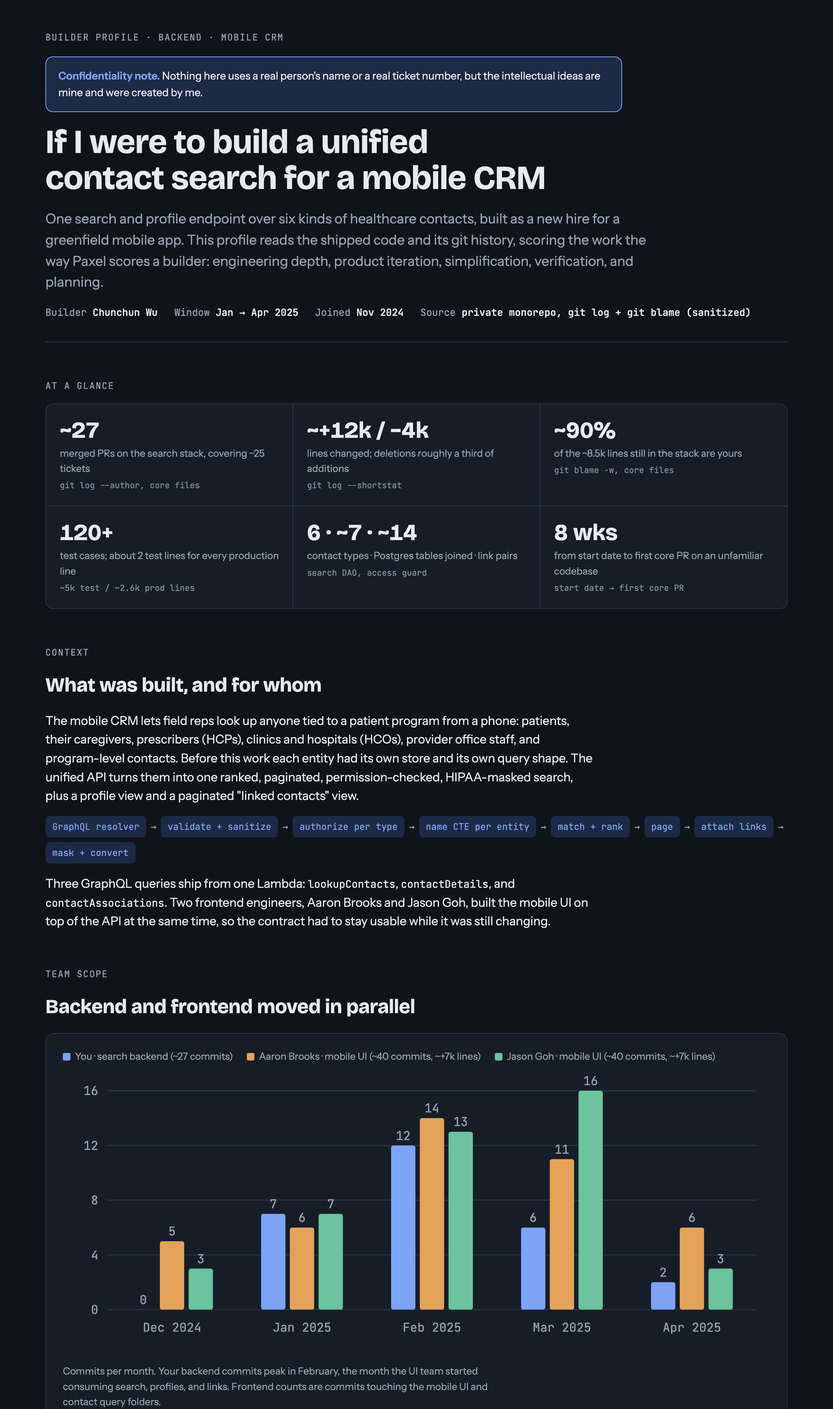
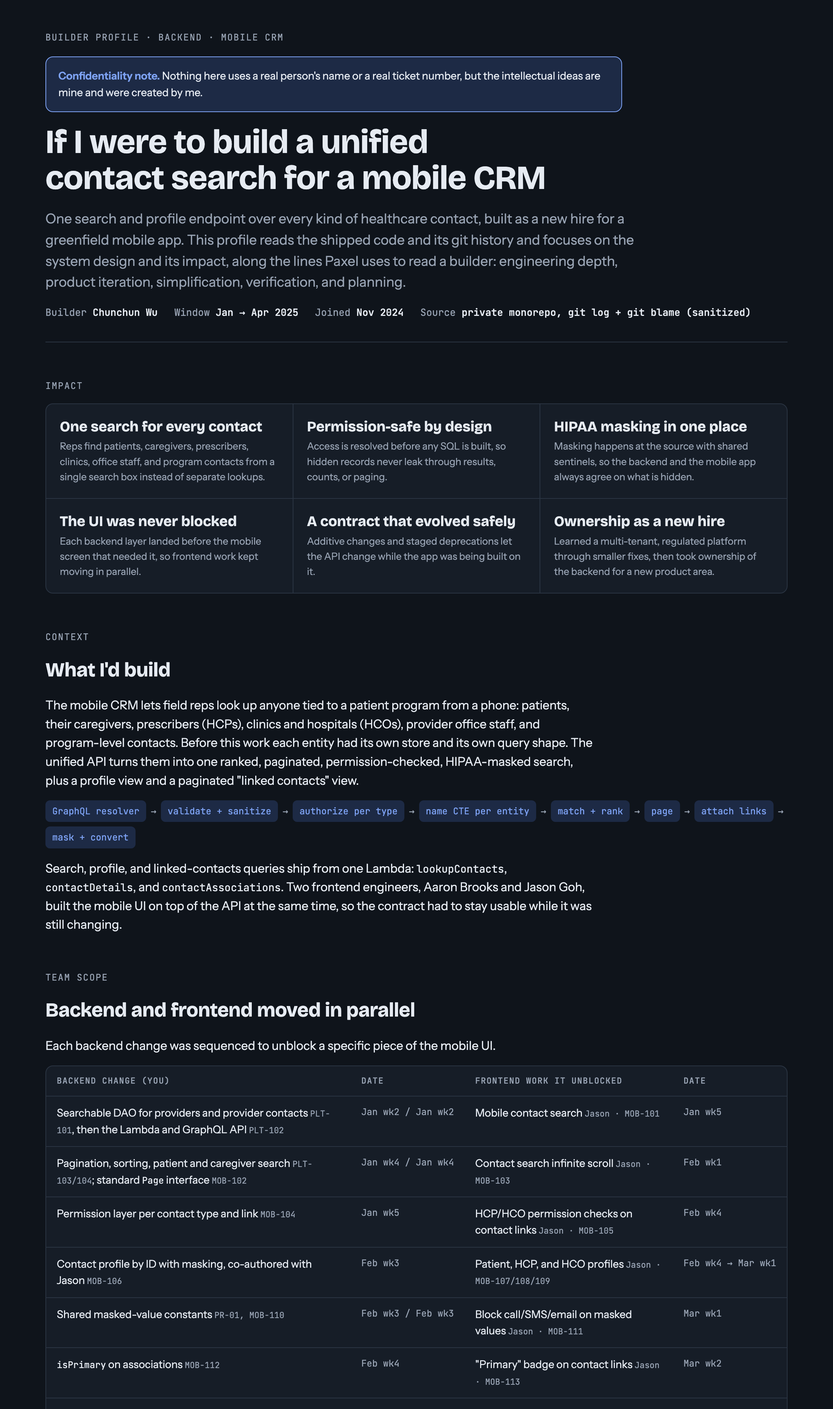
Focus the profile on impact and system design
Drops counts and git metrics in favor of outcome and action bullets,
each with a bold tagline, and renames the context section to
"What I'd build".

diff --git a/index.html b/index.html
@@ -112,6 +112,10 @@ svg text { fill: var(--muted); font-family: var(--f-mono); font-size: 11px; }
 .pipeline span.step { background: var(--accent-soft); color: var(--accent); padding: 5px 9px; border-radius: 6px; }
 .pipeline span.arr { color: var(--muted); }
 footer { border-top: 1px solid var(--rule); padding-top: 20px; font-size: 13px; color: var(--muted); display: flex; flex-direction: column; gap: 8px; }
+.tile .h { font-family: var(--f-display); font-size: 19px; font-weight: 700; line-height: 1.25; }
+.pane-label { font-family: var(--f-mono); font-size: 11px; text-transform: uppercase; letter-spacing: 0.08em; color: var(--muted); }
+ul.outcomes { margin: 0; padding-left: 18px; display: flex; flex-direction: column; gap: 10px; font-size: 14px; color: var(--muted); }
+ul.outcomes b, ul.clean b { color: var(--ink); }
 </style>
 
 <div class="wrap">
@@ -120,7 +124,7 @@ footer { border-top: 1px solid var(--rule); padding-top: 20px; font-size: 13px; 
   <span class="eyebrow">Builder profile · backend · mobile CRM</span>
   <div class="notice" role="note"><b>Confidentiality note.</b> Nothing here uses a real person's name or a real ticket number, but the intellectual ideas are mine and were created by me.</div>
   <h1>If I were to build a unified contact search for a mobile CRM</h1>
-  <p class="lede">One search and profile endpoint over six kinds of healthcare contacts, built as a new hire for a greenfield mobile app. This profile reads the shipped code and its git history, scoring the work the way Paxel scores a builder: engineering depth, product iteration, simplification, verification, and planning.</p>
+  <p class="lede">One search and profile endpoint over every kind of healthcare contact, built as a new hire for a greenfield mobile app. This profile reads the shipped code and its git history and focuses on the system design and its impact, along the lines Paxel uses to read a builder: engineering depth, product iteration, simplification, verification, and planning.</p>
   <div class="meta">
     <span>Builder <b>Chunchun Wu</b></span>
     <span>Window <b>Jan → Apr 2025</b></span>
@@ -130,20 +134,20 @@ footer { border-top: 1px solid var(--rule); padding-top: 20px; font-size: 13px; 
 </header>
 
 <section class="stack">
-  <span class="eyebrow">At a glance</span>
+  <span class="eyebrow">Impact</span>
   <div class="tiles">
-    <div class="tile"><span class="n">~27</span><span class="l">merged PRs on the search stack, covering ~25 tickets</span><span class="src">git log --author, core files</span></div>
-    <div class="tile"><span class="n">~+12k / −4k</span><span class="l">lines changed; deletions roughly a third of additions</span><span class="src">git log --shortstat</span></div>
-    <div class="tile"><span class="n">~90%</span><span class="l">of the ~8.5k lines still in the stack are yours</span><span class="src">git blame -w, core files</span></div>
-    <div class="tile"><span class="n">120+</span><span class="l">test cases; about 2 test lines for every production line</span><span class="src">~5k test / ~2.6k prod lines</span></div>
-    <div class="tile"><span class="n">6 · ~7 · ~14</span><span class="l">contact types · Postgres tables joined · link pairs</span><span class="src">search DAO, access guard</span></div>
-    <div class="tile"><span class="n">8 wks</span><span class="l">from start date to first core PR on an unfamiliar codebase</span><span class="src">start date → first core PR</span></div>
+    <div class="tile"><span class="h">One search for every contact</span><span class="l">Reps find patients, caregivers, prescribers, clinics, office staff, and program contacts from a single search box instead of separate lookups.</span></div>
+    <div class="tile"><span class="h">Permission-safe by design</span><span class="l">Access is resolved before any SQL is built, so hidden records never leak through results, counts, or paging.</span></div>
+    <div class="tile"><span class="h">HIPAA masking in one place</span><span class="l">Masking happens at the source with shared sentinels, so the backend and the mobile app always agree on what is hidden.</span></div>
+    <div class="tile"><span class="h">The UI was never blocked</span><span class="l">Each backend layer landed before the mobile screen that needed it, so frontend work kept moving in parallel.</span></div>
+    <div class="tile"><span class="h">A contract that evolved safely</span><span class="l">Additive changes and staged deprecations let the API change while the app was being built on it.</span></div>
+    <div class="tile"><span class="h">Ownership as a new hire</span><span class="l">Learned a multi-tenant, regulated platform through smaller fixes, then took ownership of the backend for a new product area.</span></div>
   </div>
 </section>
 
 <section class="stack">
   <span class="eyebrow">Context</span>
-  <h2>What was built, and for whom</h2>
+  <h2>What I'd build</h2>
   <p>The mobile CRM lets field reps look up anyone tied to a patient program from a phone: patients, their caregivers, prescribers (HCPs), clinics and hospitals (HCOs), provider office staff, and program-level contacts. Before this work each entity had its own store and its own query shape. The unified API turns them into one ranked, paginated, permission-checked, HIPAA-masked search, plus a profile view and a paginated "linked contacts" view.</p>
   <div class="pipeline" aria-label="Query pipeline">
     <span class="step">GraphQL resolver</span><span class="arr">→</span>
@@ -155,21 +159,13 @@ footer { border-top: 1px solid var(--rule); padding-top: 20px; font-size: 13px; 
     <span class="step">attach links</span><span class="arr">→</span>
     <span class="step">mask + convert</span>
   </div>
-  <p>Three GraphQL queries ship from one Lambda: <code>lookupContacts</code>, <code>contactDetails</code>, and <code>contactAssociations</code>. Two frontend engineers, Aaron Brooks and Jason Goh, built the mobile UI on top of the API at the same time, so the contract had to stay usable while it was still changing.</p>
+  <p>Search, profile, and linked-contacts queries ship from one Lambda: <code>lookupContacts</code>, <code>contactDetails</code>, and <code>contactAssociations</code>. Two frontend engineers, Aaron Brooks and Jason Goh, built the mobile UI on top of the API at the same time, so the contract had to stay usable while it was still changing.</p>
 </section>
 
 <section class="stack">
   <span class="eyebrow">Team scope</span>
   <h2>Backend and frontend moved in parallel</h2>
-  <div class="chart-card">
-    <div class="legend">
-      <span><i style="background:var(--s-you)"></i>You · search backend (~27 commits)</span>
-      <span><i style="background:var(--s-a)"></i>Aaron Brooks · mobile UI (~40 commits, ~+7k lines)</span>
-      <span><i style="background:var(--s-j)"></i>Jason Goh · mobile UI (~40 commits, ~+7k lines)</span>
-    </div>
-    <div class="chart-scroll"><svg id="cadence" viewBox="0 0 640 250" width="100%" style="min-width:520px" role="img" aria-label="Commits per month, December 2024 to April 2025"></svg></div>
-    <p style="font-size:13px;color:var(--muted)">Commits per month. Your backend commits peak in February, the month the UI team started consuming search, profiles, and links. Frontend counts are commits touching the mobile UI and contact query folders.</p>
-  </div>
+  <p>Each backend change was sequenced to unblock a specific piece of the mobile UI.</p>
   <div class="table-wrap">
     <table>
       <thead><tr><th>Backend change (you)</th><th>Date</th><th>Frontend work it unblocked</th><th>Date</th></tr></thead>
@@ -189,8 +185,8 @@ footer { border-top: 1px solid var(--rule); padding-top: 20px; font-size: 13px; 
 
 <section class="stack">
   <span class="eyebrow">Dimensions</span>
-  <h2>How the work scores</h2>
-  <p>Each panel pairs the measurable signals with a reading of the code. The pill is the strength of the evidence in the repository, not a self-rating.</p>
+  <h2>How the work reads</h2>
+  <p>Each panel pairs the outcomes with the design actions behind them. The pill is the strength of the evidence in the repository, not a self-rating.</p>
 </section>
 
 <article class="dim">
@@ -200,21 +196,21 @@ footer { border-top: 1px solid var(--rule); padding-top: 20px; font-size: 13px; 
   </div>
   <div class="dim-body">
     <div class="signals">
-      <dl class="kv">
-        <dt>6</dt><dd>contact types behind one API</dd>
-        <dt>7</dt><dd>Postgres tables, relational and JSONB</dd>
-        <dt>14</dt><dd>typed link pairs between types</dd>
-        <dt>6</dt><dd>access modules mapped to types</dd>
-        <dt>~85%</dt><dd>of the DAO lines are yours</dd>
-        <dt>3</dt><dd>GraphQL queries, 1 Lambda</dd>
-      </dl>
+      <span class="pane-label">Outcomes</span>
+      <ul class="outcomes">
+        <li><b>One API for every contact type.</b> The mobile app calls one search, one profile, and one linked-contacts query instead of a different query per entity.</li>
+        <li><b>New types plug in cheaply.</b> Adding a contact type means adding one CTE. Matching, ranking, and paging stay the same.</li>
+        <li><b>Access rules extend without rewrites.</b> A teammate later layered provider-level access restrictions (HC-101) onto the guard without touching the query.</li>
+      </ul>
     </div>
     <div class="reading">
-      <p>The hard part was shape, not volume. Providers and HCOs live in relational tables. Patients live in a JSONB cache. Caregivers are rows inside an address-book array on the patient. You normalized all of them with one CTE per entity that emits the same columns (id, name, last name, external id, type), then ran matching, ranking, paging, and link expansion once over the union.</p>
+      <span class="pane-label">Actions</span>
+      <p>The hard part was shape, not volume. Providers and HCOs live in relational tables, patients live in a JSONB cache, and caregivers are rows inside an address-book array on the patient.</p>
       <ul class="clean">
-        <li>Caregivers have no ID of their own, so you built a composite key (<code>patientId:contactBookId</code>) and moved the delimiter into a shared constant that the SQL <code>split</code> calls and the TypeScript converter both use.</li>
-        <li>Links are modelled as 14 explicit pairs (for example HCP→patient, patient→caregiver). Where the database has no HCO→HCP link, the code reads the HCP→HCO link backwards and says so in a comment.</li>
-        <li>Authorization is a separate <code>ContactAccessGuard</code>. It turns a user's role into allowed types and allowed links before any SQL runs. A teammate later layered provider-level global access restrictions (HC-101) onto this structure in a couple hundred lines.</li>
+        <li><b>Normalized every data shape.</b> One CTE per entity emits the same columns (id, name, last name, external id, type), then matching, ranking, paging, and link expansion run once over the union.</li>
+        <li><b>Gave caregivers a stable identity.</b> Caregivers have no ID of their own, so you built a composite key (<code>patientId:contactBookId</code>) with the delimiter in a shared constant that the SQL <code>split</code> calls and the TypeScript converter both use, so the two can't drift apart.</li>
+        <li><b>Modelled links as explicit pairs.</b> Every link between types (for example HCP→patient, patient→caregiver) is typed. Where the database has no HCO→HCP link, the code reads the HCP→HCO link backwards and says so in a comment.</li>
+        <li><b>Authorized before querying.</b> A separate <code>ContactAccessGuard</code> turns a user's role into allowed types and allowed links before any SQL runs, and the query is built only from what is allowed.</li>
       </ul>
       <div class="evidence"><span>c001 PLT-101</span> · <span>c002 PLT-102</span> · <span>c003 PLT-103</span> · <span>c004 MOB-104</span> · <span>c005 MOB-118</span></div>
     </div>
@@ -228,21 +224,21 @@ footer { border-top: 1px solid var(--rule); padding-top: 20px; font-size: 13px; 
   </div>
   <div class="dim-body">
     <div class="signals">
-      <dl class="kv">
-        <dt>~25</dt><dd>distinct tickets in ~14 weeks</dd>
-        <dt>12</dt><dd>PRs in February, at the UI ramp</dd>
-        <dt>36%</dt><dd>lines deleted per line added</dd>
-        <dt>3</dt><dd>contract changes kept backward compatible</dd>
-        <dt>4</dt><dd>dedicated bug-fix rounds</dd>
-      </dl>
+      <span class="pane-label">Outcomes</span>
+      <ul class="outcomes">
+        <li><b>Search results reps can trust.</b> Exact matches and primary links rise to the top, and hidden patients never sort by a fake value.</li>
+        <li><b>The mobile client never broke.</b> Every contract change shipped backward compatible while the UI was being built on it.</li>
+        <li><b>Cleaner, more relevant results.</b> Archived providers no longer leak into search, and previews show what reps actually need.</li>
+      </ul>
     </div>
     <div class="reading">
-      <p>Requirements kept changing as the mobile UI came together, and the history shows a steady loop: ship, see it in the app, tighten. The ranking is the clearest example. It started as plain matching and ended as a documented three-step order.</p>
+      <span class="pane-label">Actions</span>
+      <p>Requirements kept changing as the mobile UI came together, and the history shows a steady loop: ship, see it in the app, tighten. The ranking is the clearest example. It started as plain matching and ended as a documented, ordered set of rules.</p>
       <ul class="clean">
-        <li><b>Ranking.</b> Case-insensitive order (PR-02), then exact matches first, then last name when one exists (MOB-119), then primary links first (MOB-120). Masked names sort as empty and fall back to external ID, so hidden patients never sort by a fake value.</li>
-        <li><b>Search scope.</b> Added search by external ID (MOB-121). Showed the external ID as the preview subtitle (MOB-110) and dropped addresses from previews (MOB-122).</li>
-        <li><b>Contract hygiene.</b> Trimmed the GraphQL schema (MOB-123), replaced <code>hasNext</code> with the shared <code>Page</code> interface (MOB-102), and retired <code>LegacyContactKind</code> in stages, leaving a "to be deprecated" marker so the mobile client never broke (MOB-124).</li>
-        <li><b>Data correctness.</b> Archived providers leaking into results (MOB-112), faster JSONB archive checks (MOB-125), and an <code>isPrimary</code> flag on associations.</li>
+        <li><b>Refined ranking with real use.</b> Case-insensitive order (PR-02), then exact matches first, then last name when one exists (MOB-119), then primary links first (MOB-120). Masked names sort as empty and fall back to external ID.</li>
+        <li><b>Widened the search scope.</b> Added search by external ID (MOB-121), showed the external ID as the preview subtitle (MOB-110), and dropped addresses from previews (MOB-122).</li>
+        <li><b>Kept the contract clean.</b> Trimmed the GraphQL schema (MOB-123), replaced <code>hasNext</code> with the shared <code>Page</code> interface (MOB-102), and retired <code>LegacyContactKind</code> in stages with a "to be deprecated" marker (MOB-124).</li>
+        <li><b>Fixed data correctness.</b> Stopped archived providers leaking into results (MOB-112), sped up JSONB archive checks (MOB-125), and added an <code>isPrimary</code> flag on associations.</li>
       </ul>
       <div class="evidence"><span>c006 MOB-126/127/128</span> · <span>c007 MOB-129</span> · <span>c008 MOB-121</span> · <span>c009 MOB-124</span> · <span>c010 MOB-119</span> · <span>c011 MOB-120</span></div>
     </div>
@@ -256,19 +252,21 @@ footer { border-top: 1px solid var(--rule); padding-top: 20px; font-size: 13px; 
   </div>
   <div class="dim-body">
     <div class="signals">
-      <dl class="kv">
-        <dt>1</dt><dd>shared constants module, used by both apps</dd>
-        <dt>2</dt><dd>backend-local mask strings removed</dd>
-        <dt>3</dt><dd>teammate PRs adopted it within 4 weeks</dd>
-        <dt>~175</dt><dd>lines deleted from the result processor in MOB-106</dd>
-      </dl>
+      <span class="pane-label">Outcomes</span>
+      <ul class="outcomes">
+        <li><b>One source of truth.</b> Backend and frontend import the same mask constants, so there are no local copies to drift.</li>
+        <li><b>Hidden is never confused with empty.</b> The sentinels can't collide with real data, so the UI reliably detects a masked value.</li>
+        <li><b>Teammates built on it right away.</b> Masked phone and email can't start a call or message (MOB-111), masked values are hidden from contact dropdowns (MSG-101), and the patient profile switched to the shared constants (PR-03).</li>
+      </ul>
     </div>
     <div class="reading">
+      <span class="pane-label">Actions</span>
       <p>Patients without HIPAA consent must show masked values. At first the backend used its own ASCII strings (<code>******</code>, <code>***-***-****</code>) inside the converter, and the web app kept its own mask literals. A real value could collide with the mask, and the UI had no reliable way to tell "hidden" from "empty".</p>
       <ul class="clean">
-        <li>Masking moved into the query: columns are tagged <code>MaskedColumn</code>, so the masked value is produced once, at the source, and paging, sorting, and links all see the same value.</li>
-        <li>The masks moved into <code>@medlink/constants/obfuscation</code>, imported by backend and frontend alike. Each one uses heavy asterisks plus a zero-width space, so no real data can equal it and the UI can detect a masked value with a plain set lookup.</li>
-        <li>Teammates built on it right away: masked phone and email can't start a call or message (Jason, MOB-111), masked values are hidden from contact dropdowns (MSG-101), and the patient profile switched to the shared constants (PR-03).</li>
+        <li><b>Masked at the source.</b> Columns are tagged <code>MaskedColumn</code>, so the masked value is produced once, in the query, and paging, sorting, and links all see the same value.</li>
+        <li><b>Centralized the masks.</b> The masks moved into <code>@medlink/constants/obfuscation</code>, imported by backend and frontend alike.</li>
+        <li><b>Designed collision-proof sentinels.</b> Each mask uses heavy asterisks plus a zero-width space, so no real data can equal it and the UI can detect a masked value with a plain set lookup.</li>
+        <li><b>Removed duplicate masking code.</b> Deleted the converter's local mask strings and the masking logic in the result processor (MOB-106).</li>
       </ul>
       <div class="evidence"><span>c012 PR-01</span> · <span>c013 MOB-110</span> · <span>c014 MOB-106</span> · <span>c015 MOB-111</span> · <span>c016 PR-03</span></div>
     </div>
@@ -282,20 +280,20 @@ footer { border-top: 1px solid var(--rule); padding-top: 20px; font-size: 13px; 
   </div>
   <div class="dim-body">
     <div class="signals">
-      <dl class="kv">
-        <dt>120+</dt><dd>unit and integration cases</dd>
-        <dt>~70</dt><dd>DAO cases against Postgres</dd>
-        <dt>~20</dt><dd>Lambda permission and masking cases</dd>
-        <dt>~2 : 1</dt><dd>test to production lines</dd>
-        <dt>6</dt><dd>Playwright mobile contact tests hit the API</dd>
-        <dt>2</dt><dd>latency timers in the request path</dd>
-      </dl>
+      <span class="pane-label">Outcomes</span>
+      <ul class="outcomes">
+        <li><b>Rules checked against a real database.</b> Every permission and masking rule runs against a Postgres test database, not mocks.</li>
+        <li><b>Mobile flows covered end to end.</b> The mobile Playwright suite exercises the API through real contact flows.</li>
+        <li><b>Latency visible per request.</b> Search time shows up in CloudWatch at both the DAO and resolver layers.</li>
+      </ul>
     </div>
     <div class="reading">
-      <p>Automated testing is the strongest part of this dimension. Every major PR shipped with more test lines than code, and the ~1k-line shared fixture models a realistic tenant (every contact type, patients with and without consent, archived records) so each permission and masking rule is checked against a Postgres test database, not mocks.</p>
+      <span class="pane-label">Actions</span>
+      <p>Automated testing is the strongest part of this dimension. Every major PR shipped with its tests, and more test code than production code overall.</p>
       <ul class="clean">
-        <li><b>End-to-end.</b> The mobile Playwright suite runs six contact flows through your API: patient profile, patient associations, HCO profile, HCP profile, and creating email and SMS from a contact. Teammates wrote those specs. Your own Playwright work is on a later feature (PR-04, PR-05).</li>
-        <li><b>Latency.</b> Search time is logged at the DAO and resolver layers (<code>Timer</code> in MOB-114), which gives per-request numbers in CloudWatch.</li>
+        <li><b>Built a realistic tenant fixture.</b> One shared fixture models every contact type, patients with and without consent, and archived records, so each permission and masking rule is checked against realistic data.</li>
+        <li><b>Covered the mobile flows end to end.</b> The Playwright suite runs patient profile, patient associations, HCO profile, HCP profile, and creating email and SMS from a contact through your API. Teammates wrote those specs. Your own Playwright work is on a later feature (PR-04, PR-05).</li>
+        <li><b>Instrumented latency.</b> Search time is logged at the DAO and resolver layers (<code>Timer</code> in MOB-114).</li>
       </ul>
       <div class="todo">
         <b>Load test results are not in the repository.</b>
@@ -313,15 +311,20 @@ footer { border-top: 1px solid var(--rule); padding-top: 20px; font-size: 13px; 
   </div>
   <div class="dim-body">
     <div class="signals">
-      <dl class="kv">
-        <dt>1 day</dt><dd>from DAO PR to API PR</dd>
-        <dt>1 day</dt><dd>median gap between core PRs (3.8-day mean)</dd>
-        <dt>2</dt><dd>features split into "Part 1" PRs</dd>
-        <dt>0</dt><dd>reverts on the search stack</dd>
-      </dl>
+      <span class="pane-label">Outcomes</span>
+      <ul class="outcomes">
+        <li><b>The UI never waited on the backend.</b> Each layer landed before the screen that needed it.</li>
+        <li><b>Reviews stayed small.</b> Large items were split into "Part 1" PRs that could be reviewed quickly.</li>
+        <li><b>A stable stack.</b> Nothing on the search stack had to be reverted, while the mobile comms area had reverts elsewhere in the same period.</li>
+      </ul>
     </div>
     <div class="reading">
-      <p>The build order kept every step mergeable: data access with tests first, then the API, then pagination, then permissions, then masking, then profiles. Each layer landed before the UI needed it, and large items were split ("Part 1" for MOB-129 and MOB-110) so reviews stayed small. The mobile comms area had reverts elsewhere during this period. The search stack had none.</p>
+      <span class="pane-label">Actions</span>
+      <ul class="clean">
+        <li><b>Built bottom-up.</b> Data access with tests first, then the API, then pagination, then permissions, then masking, then profiles, so every step was mergeable on its own.</li>
+        <li><b>Split large items.</b> "Part 1" PRs for MOB-129 and MOB-110 kept each review focused.</li>
+        <li><b>Shipped in short, steady increments.</b> Core PRs followed each other closely, starting with the API the day after the data layer.</li>
+      </ul>
       <div class="evidence"><span>PLT-101 → PLT-102 → PLT-103 → MOB-102 → MOB-104 → MOB-118 → MOB-106</span></div>
     </div>
   </div>
@@ -331,8 +334,8 @@ footer { border-top: 1px solid var(--rule); padding-top: 20px; font-size: 13px; 
   <span class="eyebrow">Challenges</span>
   <h2>Problems a new hire had to solve</h2>
   <div class="challenges">
-    <div class="ch"><h3>New codebase, healthcare rules</h3><span class="k p">Problem</span><p>A multi-tenant monorepo with per-customer Postgres schemas, DynamoDB, and HIPAA access tiers, learned while the project was starting.</p><span class="k s">Response</span><p>Spent eight weeks on smaller fixes and refactors, then took the backend for a new product area. Roughly 90% of its lines are still yours today.</p></div>
-    <div class="ch"><h3>Six data shapes, one result list</h3><span class="k p">Problem</span><p>Relational rows, JSONB documents, and nested arrays had to rank and page together.</p><span class="k s">Response</span><p>Per-entity CTEs that emit one common row shape, with a composite key for caregivers who had no ID.</p></div>
+    <div class="ch"><h3>New codebase, healthcare rules</h3><span class="k p">Problem</span><p>A multi-tenant monorepo with per-customer Postgres schemas, DynamoDB, and HIPAA access tiers, learned while the project was starting.</p><span class="k s">Response</span><p>Started with smaller fixes and refactors to learn the platform, then took ownership of the backend for a new product area.</p></div>
+    <div class="ch"><h3>Many data shapes, one result list</h3><span class="k p">Problem</span><p>Relational rows, JSONB documents, and nested arrays had to rank and page together.</p><span class="k s">Response</span><p>Per-entity CTEs that emit one common row shape, with a composite key for caregivers who had no ID.</p></div>
     <div class="ch"><h3>Permissions before data</h3><span class="k p">Problem</span><p>Each role sees a different set of types and links. Filtering after the query would leak counts and break paging.</p><span class="k s">Response</span><p>The authorizer decides allowed types and links first, and the SQL is built only from what is allowed.</p></div>
     <div class="ch"><h3>Masking that stays consistent</h3><span class="k p">Problem</span><p>Mask strings defined twice, collision with real data, and sort order based on hidden values.</p><span class="k s">Response</span><p>Masking in SQL, shared sentinel constants, and masked values sorted as empty with an external-ID fallback.</p></div>
     <div class="ch"><h3>A contract under active use</h3><span class="k p">Problem</span><p>Two frontend engineers built on the API while it was still changing.</p><span class="k s">Response</span><p>Staged deprecations, the shared <code>Page</code> interface, and pairing with Jason on the profile endpoint.</p></div>
@@ -341,50 +344,8 @@ footer { border-top: 1px solid var(--rule); padding-top: 20px; font-size: 13px; 
 </section>
 
 <footer>
-  <span>Method: commit counts and line stats come from <code>git log --shortstat</code> on the core files of the search stack plus the shared SQL helpers and masking constants. Ownership comes from <code>git blame -w</code> on the main branch. Numbers are rounded and all identifiers are pseudonyms. Test cases are counted <code>it(</code> and <code>test(</code> calls. Frontend counts are limited to mobile component and contact query paths.</span>
+  <span>Method: the reading comes from the code and git history of the search stack, the shared SQL helpers, and the masking constants on the main branch. All identifiers are pseudonyms.</span>
   <span>Generated 2026-11-18. Ticket and commit references are stand-ins that map one-to-one to real items in the private repository, so the original can be checked on request.</span>
 </footer>
 
 </div>
-
-<script>
-(function () {
-  var svg = document.getElementById('cadence');
-  if (!svg) return;
-  var months = ['Dec 2024', 'Jan 2025', 'Feb 2025', 'Mar 2025', 'Apr 2025'];
-  var series = [
-    { key: '--s-you', data: [0, 7, 12, 6, 2] },
-    { key: '--s-a', data: [5, 6, 14, 11, 6] },
-    { key: '--s-j', data: [3, 7, 13, 16, 3] }
-  ];
-  var NS = 'http://www.w3.org/2000/svg';
-  var left = 40, right = 628, top = 16, bottom = 214, max = 16;
-  var h = bottom - top, groupW = (right - left) / months.length, barW = 22, gap = 4;
-  function el(name, attrs, text) {
-    var n = document.createElementNS(NS, name);
-    Object.keys(attrs).forEach(function (k) { n.setAttribute(k, attrs[k]); });
-    if (text !== undefined) n.textContent = text;
-    svg.appendChild(n);
-    return n;
-  }
-  [0, 4, 8, 12, 16].forEach(function (v) {
-    var y = bottom - (v / max) * h;
-    el('line', { x1: left, x2: right, y1: y, y2: y, stroke: 'var(--rule)', 'stroke-width': 1, fill: 'none' });
-    el('text', { x: left - 8, y: y + 4, 'text-anchor': 'end' }, String(v));
-  });
-  months.forEach(function (m, i) {
-    var gx = left + i * groupW;
-    var total = series.length * barW + (series.length - 1) * gap;
-    var x0 = gx + (groupW - total) / 2;
-    series.forEach(function (s, j) {
-      var v = s.data[i];
-      var bh = (v / max) * h;
-      var x = x0 + j * (barW + gap);
-      var r = el('rect', { x: x, y: bottom - bh, width: barW, height: Math.max(bh, 0), rx: 2, fill: 'var(' + s.key + ')' });
-      var t = document.createElementNS(NS, 'title'); t.textContent = m + ': ' + v + ' commits'; r.appendChild(t);
-      el('text', { x: x + barW / 2, y: bottom - bh - 5, 'text-anchor': 'middle' }, String(v));
-    });
-    el('text', { x: gx + groupW / 2, y: bottom + 20, 'text-anchor': 'middle' }, m);
-  });
-})();
-</script>

diff --git a/README.md b/README.md
@@ -6,34 +6,42 @@
 
 > **Confidentiality note.** Nothing here uses a real person's name or a real ticket number, but the intellectual ideas are mine and were created by me.
 
-A Paxel-style profile of the backend I built as a new hire: one search and profile API over six kinds of healthcare contacts, built for a greenfield mobile CRM app while two frontend engineers built the UI on top of it.
+A Paxel-style profile of the backend I built as a new hire: one search and profile API over every kind of healthcare contact, built for a greenfield mobile CRM app while two frontend engineers built the UI on top of it. It focuses on the system design and its impact.
 
 ## Contents
 
 | File | What it is |
 | --- | --- |
-| [`index.html`](index.html) | The full profile report: summary metrics, team-scope chart, backend-to-frontend dependency table, five scored dimensions, and challenges. Open it in a browser. |
+| [`index.html`](index.html) | The full profile report: impact summary, what I'd build, backend-to-frontend dependency table, five dimensions of outcomes and actions, and challenges. Open it in a browser. |
 | [`TRANSCRIPT.md`](TRANSCRIPT.md) | Sanitized transcript of the Claude Code session that produced the report: messages plus a one-line log of each analysis step. Raw tool output and source code are left out. |
 
-## At a glance
+## Impact
 
-| Signal | Value (rounded) |
-| --- | --- |
-| Merged PRs on the search stack | ~27, covering ~25 tickets, Jan to Apr 2025 |
-| Lines changed | ~+12k / −4k |
-| Share of surviving lines I wrote | ~90% of ~8.5k |
-| Automated test cases | 120+, about 2 test lines per production line |
-| Scope | 6 contact types, ~7 Postgres tables, ~14 link pairs, 3 GraphQL queries |
-| Ramp-up | 8 weeks from start date to first core PR |
+- **One search for every contact.** Reps find patients, caregivers, prescribers, clinics, office staff, and program contacts from a single search box instead of separate lookups.
+- **Permission-safe by design.** Access is resolved before any SQL is built, so hidden records never leak through results, counts, or paging.
+- **HIPAA masking in one place.** Masking happens at the source with shared sentinels, so the backend and the mobile app always agree on what is hidden.
+- **The UI was never blocked.** Each backend layer landed before the mobile screen that needed it, so frontend work kept moving in parallel.
+- **A contract that evolved safely.** Additive changes and staged deprecations let the API change while the app was being built on it.
+- **Ownership as a new hire.** Learned a multi-tenant, regulated platform through smaller fixes, then took ownership of the backend for a new product area.
 
 ## Dimensions
 
-1. **Engineering: backend depth across entities.** One query pipeline normalizes relational rows, JSONB documents, and nested caregiver arrays into a single ranked, paginated result. An access guard decides which types and links a role may see before any SQL is built.
-2. **Product instinct and execution: iterating on requirements.** Ranking went through four refinements: case-insensitive order, exact matches first, last-name sort, and primary links first. Search by external ID was added. Three API contract changes shipped without breaking the mobile client.
-3. **Simplification: one source of truth for HIPAA masking.** Masking moved into the SQL layer, and the backend's local mask strings and the frontend's copies were replaced by shared sentinel constants that can't collide with real data. Three teammate PRs built on it within four weeks.
-4. **Verification: tests, end-to-end, and load.** Unit and integration coverage is strong and runs against a Postgres test database. Mobile Playwright flows exercise the API end to end. Latency timers sit in the request path. Load-test results are still to be added.
-5. **Planning: thin, safe slices.** The build order was data access, then API, then pagination, permissions, masking, and profiles, with a median gap of 1 day between core PRs and no reverts on the stack.
+1. **Engineering: backend depth across entities.**
+   - **Normalized every data shape.** One CTE per entity turns relational rows, JSONB documents, and nested caregiver arrays into one common row, so matching, ranking, and paging are written once.
+   - **Authorized before querying.** An access guard decides which types and links a role may see before any SQL is built, so new access rules plug in without touching the query.
+2. **Product instinct and execution: iterating on requirements.**
+   - **Refined ranking with real use.** Case-insensitive order, exact matches first, last-name sort, and primary links first, so reps see the most relevant contact at the top.
+   - **Kept the contract clean.** A shared `Page` interface and staged deprecations meant the mobile client never broke.
+3. **Simplification: one source of truth for HIPAA masking.**
+   - **Masked at the source.** Masking moved into the SQL layer, so paging, sorting, and links all see the same value.
+   - **Shared, collision-proof sentinels.** Backend and frontend import the same mask constants, so the UI can always tell hidden from empty, and teammates built on it right away.
+4. **Verification: tests, end-to-end, and load.**
+   - **Rules checked against a real database.** Permission and masking rules run against a Postgres test database with a realistic tenant fixture.
+   - **Flows covered end to end.** Mobile Playwright flows exercise the API, and latency timers sit in the request path. Load-test results are still to be added.
+5. **Planning: thin, safe slices.**
+   - **Built bottom-up.** Data access, then API, pagination, permissions, masking, and profiles, so each layer landed before the UI needed it.
+   - **Kept the stack stable.** Small, focused PRs and nothing on the search stack had to be reverted.
 
 ## Method
 
-Metrics come from `git log --shortstat` and `git blame -w` on the core files of the search stack in the original repository. Frontend comparisons count commits on the mobile UI paths only. Every stand-in reference maps one-to-one to a real item, so the original can be verified on request.
+The reading comes from the code and git history of the search stack in the original repository. Every stand-in reference maps one-to-one to a real item, so the original can be verified on request.
